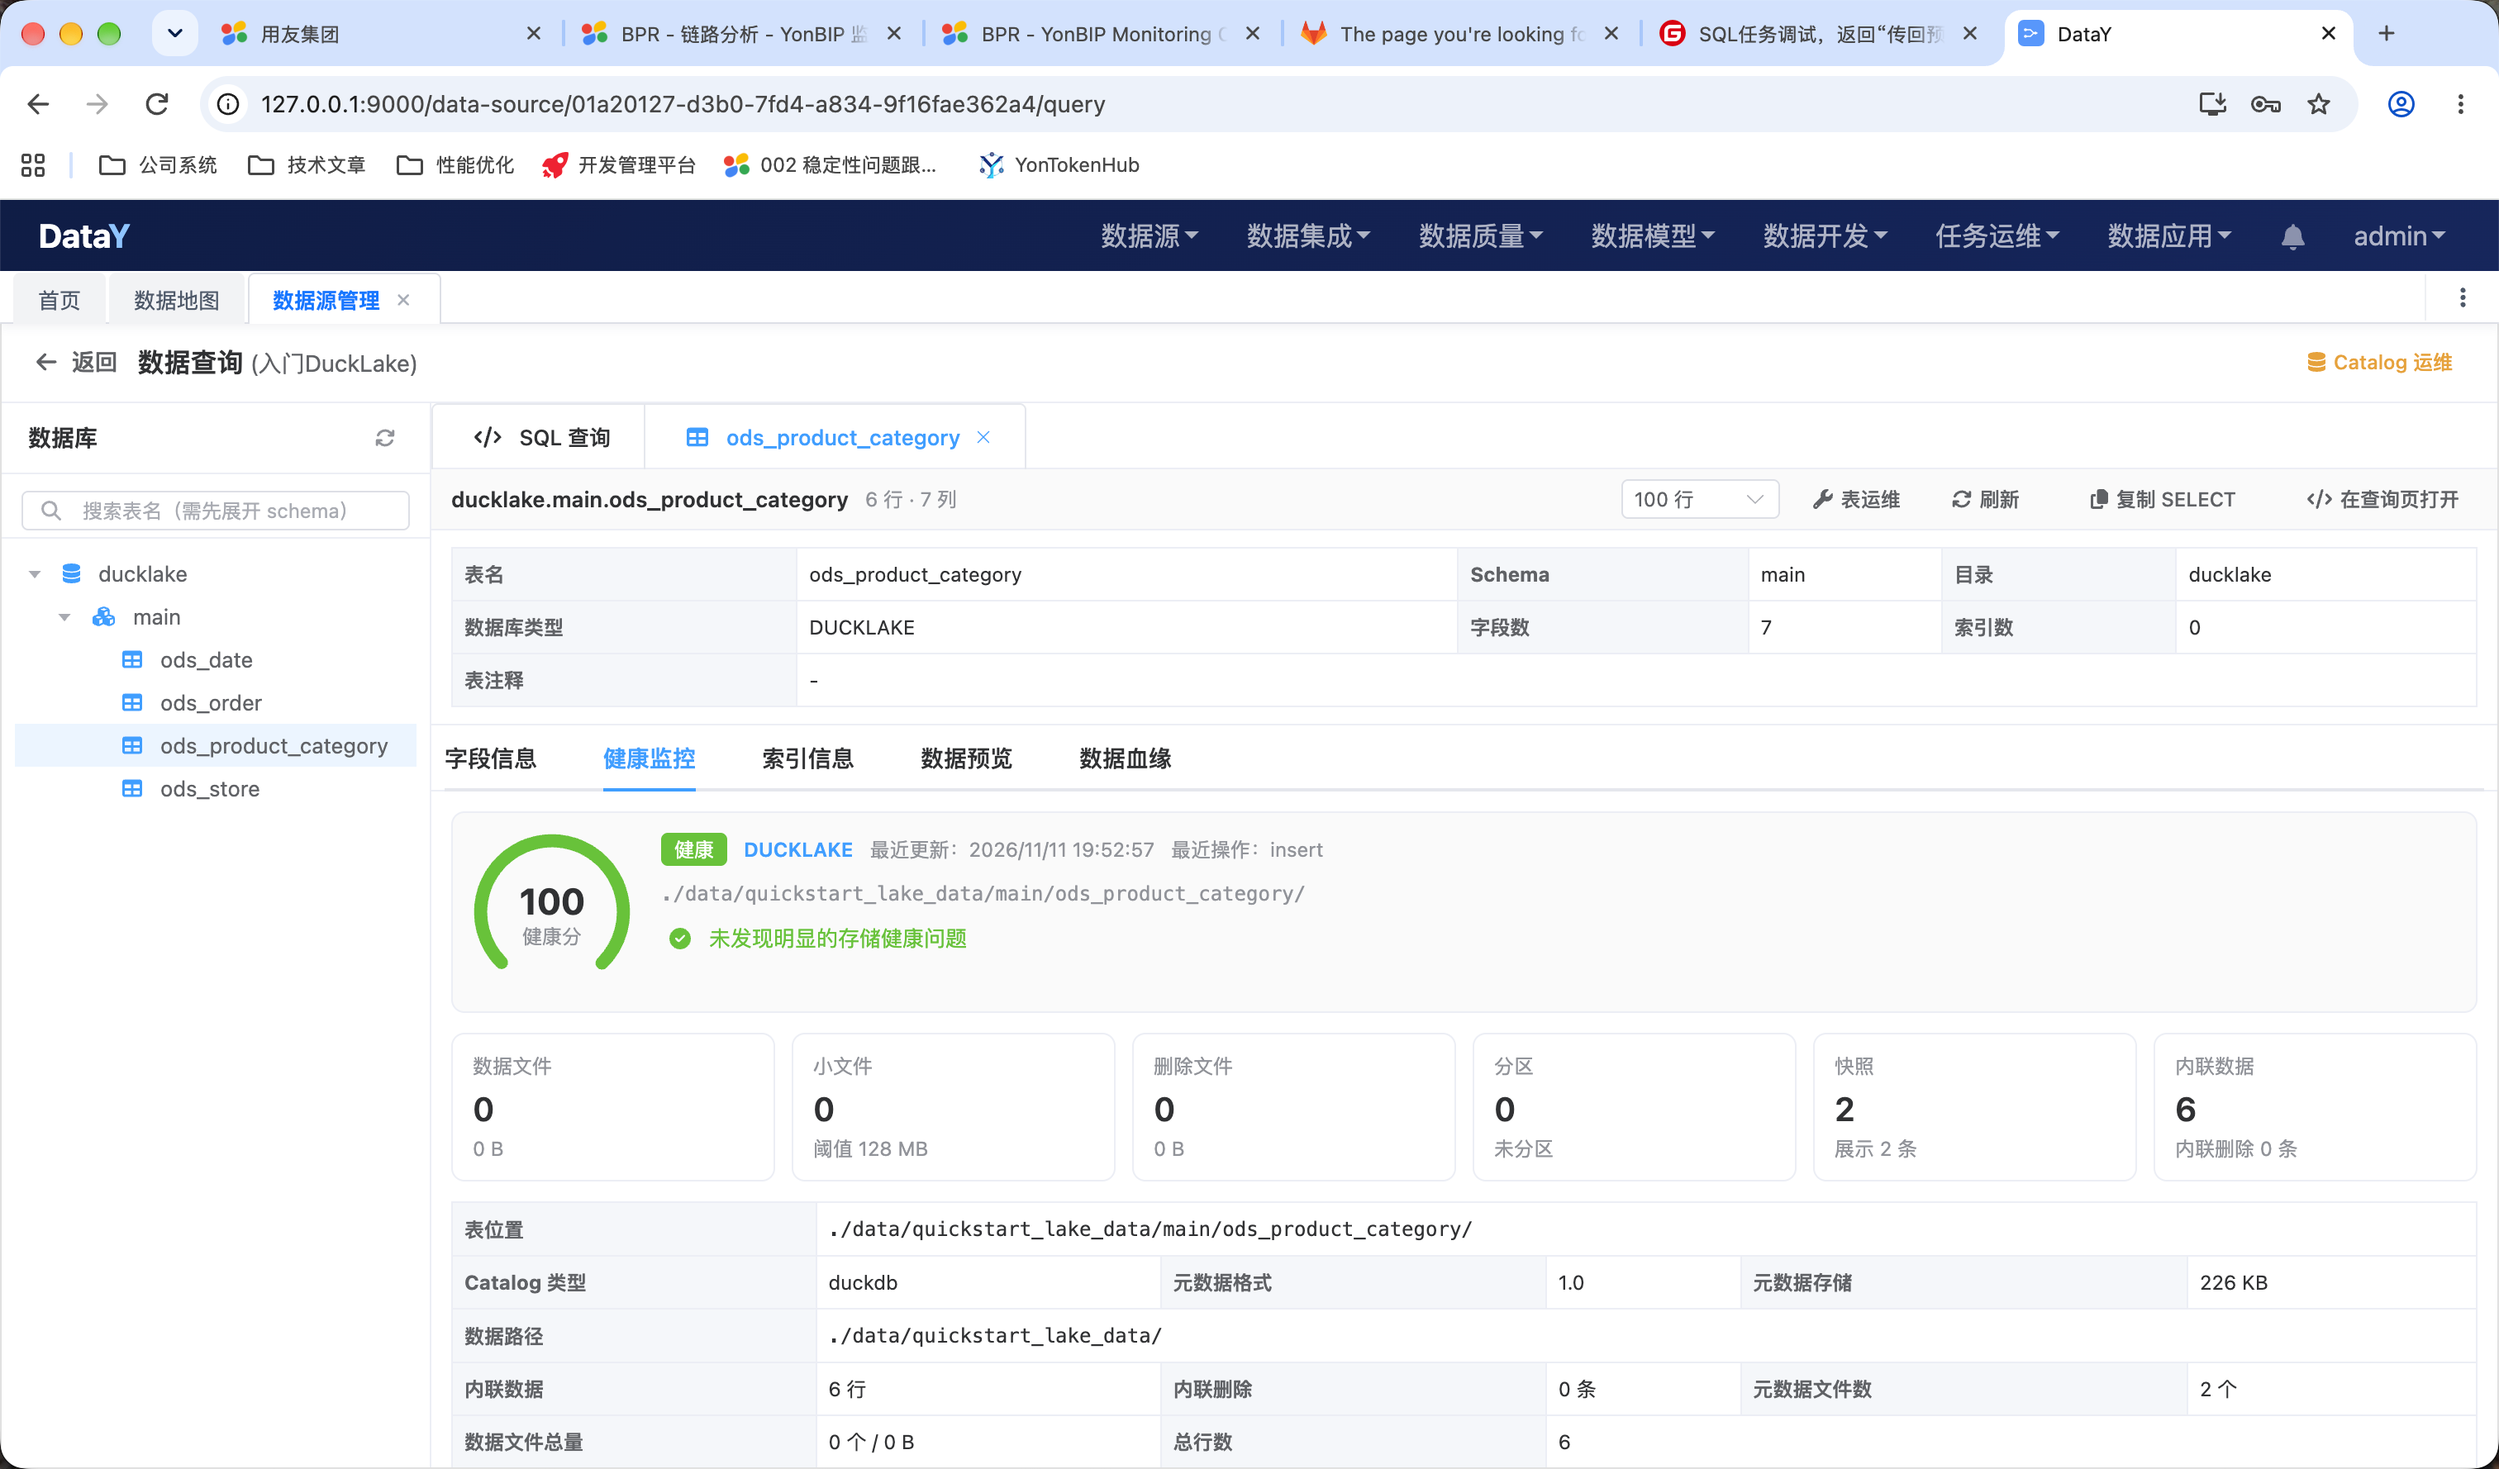
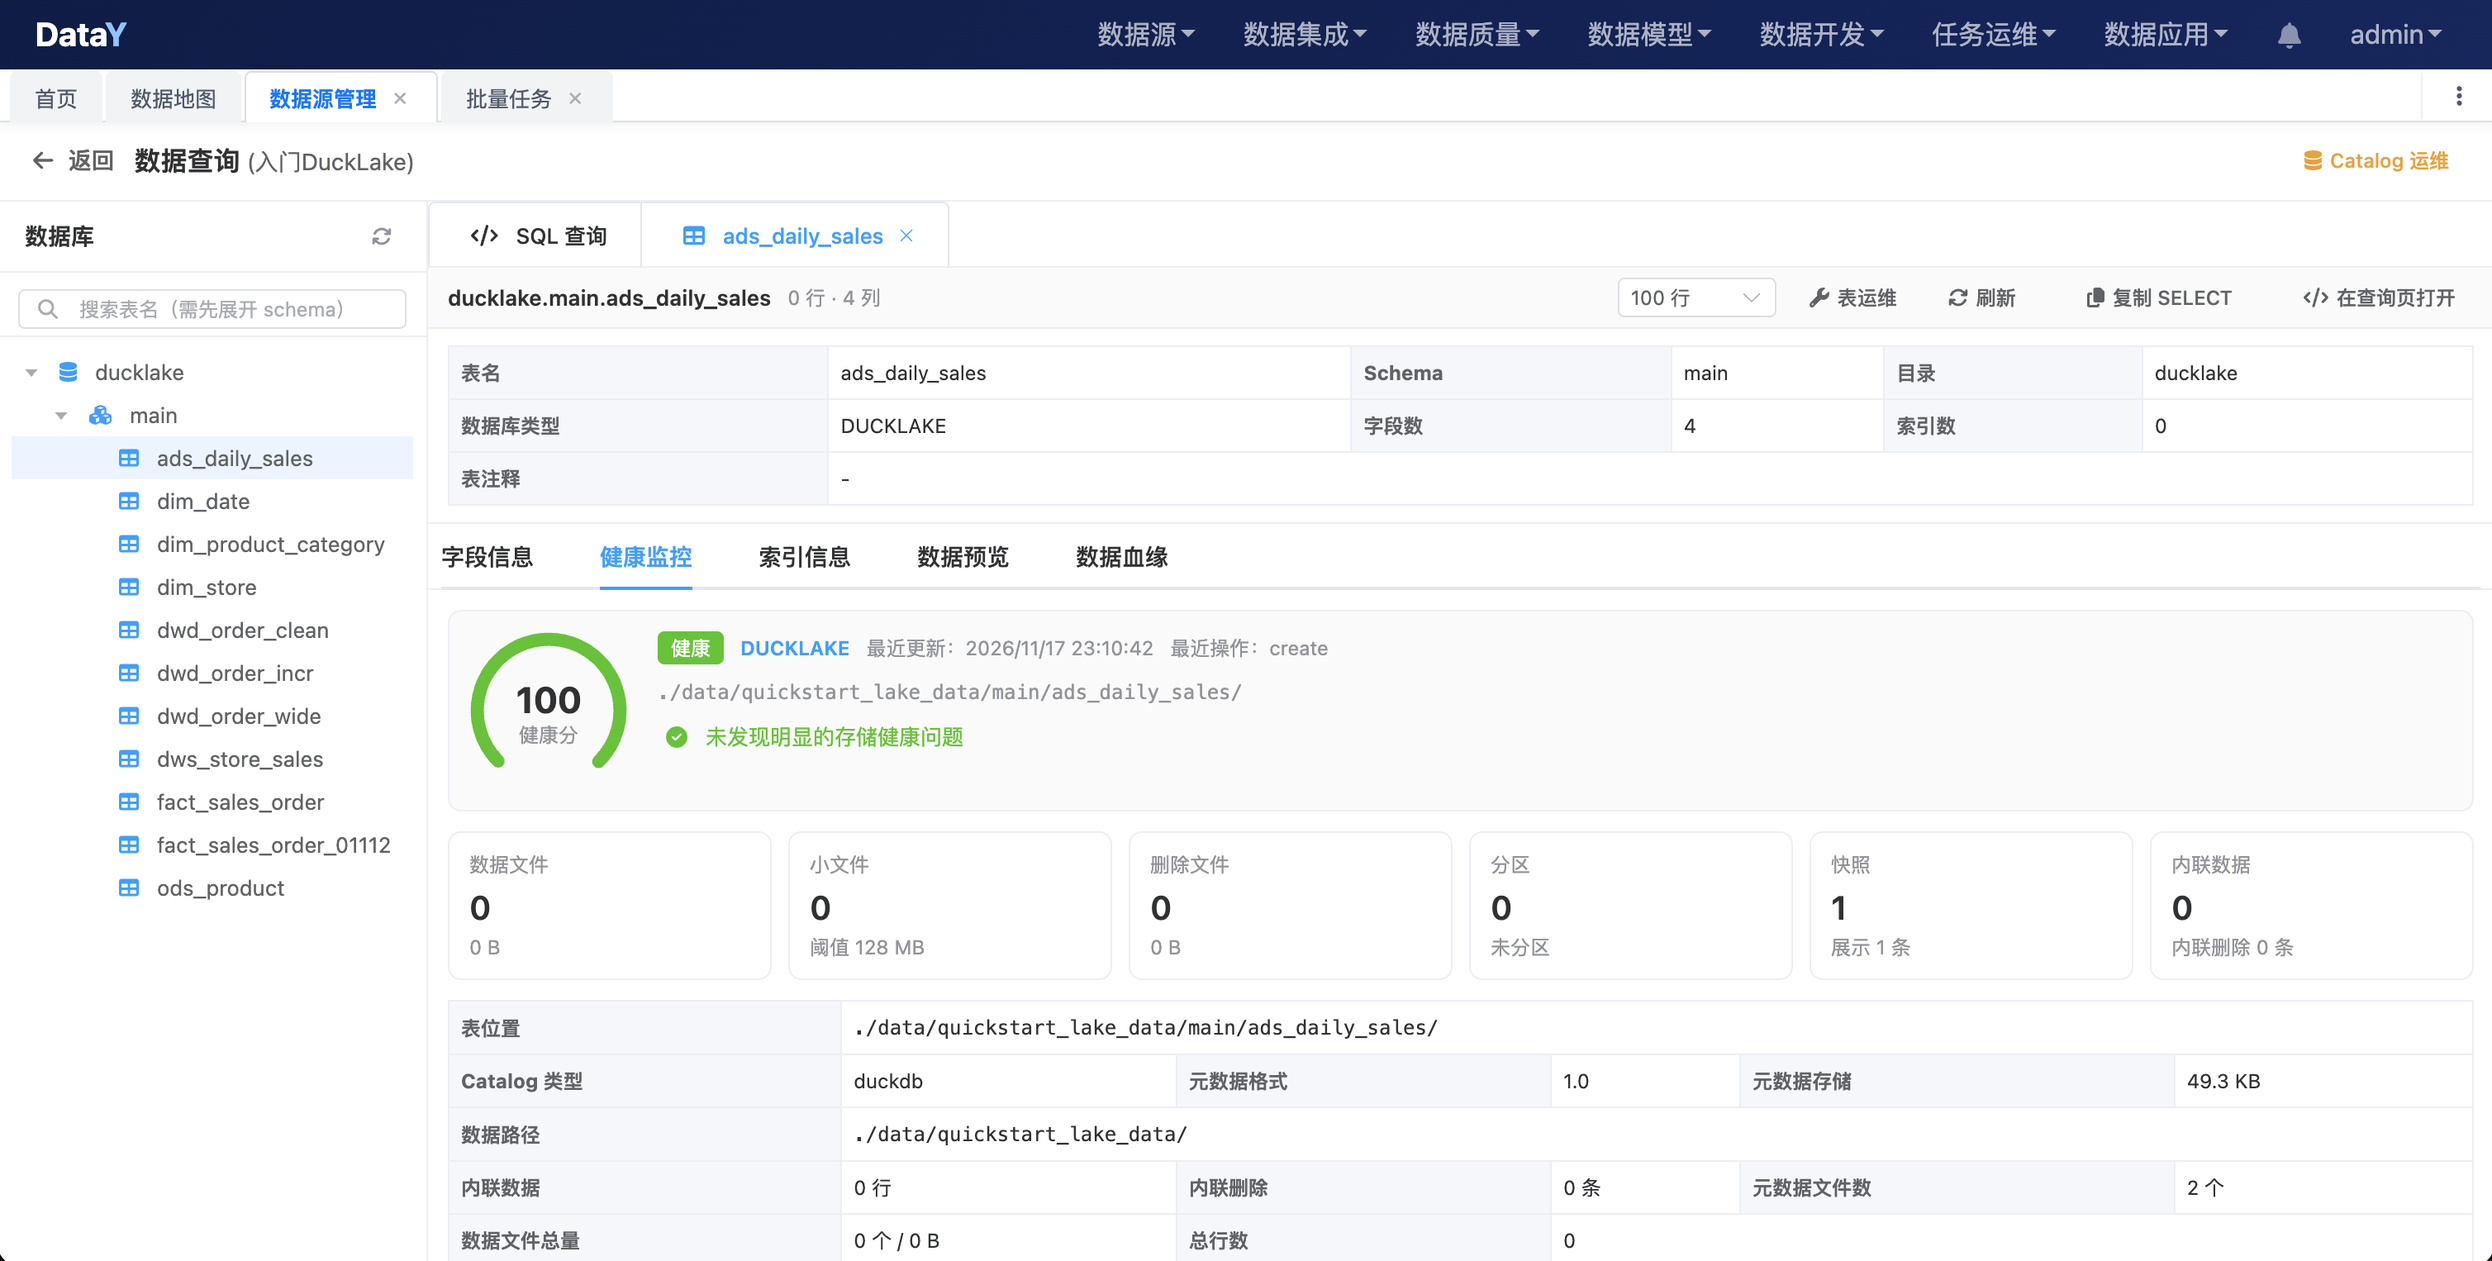
docs(readme): 补充平台核心能力截图并更新示例图片

diff --git a/README.md b/README.md
@@ -1,6 +1,6 @@
 # DataY · 轻量数据平台
 
-> 数据平台可以很小，功能不打折。一套 DataY 跑起来，数据集成、维度建模、任务调度、高性能数仓、智能问数 —— 全有。
+> 数据平台可以很小，功能不打折。一套 DataY 跑起来，数据集成、维度建模、任务调度、高性能数仓、分析看板、智能问数 —— 全有。
 
 🌐 **产品首页**: [http://datay.yuyuejia.com.cn/](http://datay.yuyuejia.com.cn/)
 
@@ -30,7 +30,7 @@ DataY 分两个子模块，Core 负责引擎，Web 负责平台产品：
 datay/
 ├── pom.xml          # Maven 父模块
 ├── datay-core/      # 轻量、高性能、流批一体的数据集成引擎
-├── datay-web/       # 可视化数据平台（任务设计 + 调度 + 数仓 + 问数）
+├── datay-web/       # 可视化数据平台（任务设计 + 调度 + 数仓 + 看板 + 问数）
 └── docs/            # 产品主页 + 帮助文档
 ```
 
@@ -44,6 +44,10 @@ datay/
 - 自动建表（DDL 转换），源表改字段自动同步到目标
 - 支持跨库数据比对：按主键关联两侧表，DuckDB SQL 计算差异，结果文件写入本地或 MinIO
 
+|                                 可视化 ETL 拖拽画布                                 |                                   多数据源统一接入                                    |
+|:----------------------------------------------------------------------------:|:-----------------------------------------------------------------------------:|
+| <img src="datay-web/docs/images/ETL任务设计.png" width="400" alt="可视化 ETL 拖拽画布"> | <img src="datay-web/docs/images/数据源管理.png" width="400" alt="创建数据源，支持三十余种数据源"> |
+
 ### 维度建模（Dimensional Modeling）
 
 - 星型 / 雪花模型：可视化定义事实表与维度表的关联，沉淀业务语义层
@@ -52,12 +56,20 @@ datay/
 - 维度 / 事实模型支持物化建表，数据直接落地到内嵌 DuckDB
 - 为指标管理与智能问数提供统一的维度体系，指标口径不跑偏
 
+|                                          事实表字段关联维度                                           |                                               指标数据血缘                                                |
+| :---------------------------------------------------------------------------------------------------: | :-------------------------------------------------------------------------------------------------------: |
+| <img src="datay-web/docs/images/事实表字段关联维度配置.png" width="400" alt="事实表字段一键关联维度"> | <img src="datay-web/docs/images/数据血缘.png" width="400" alt="数据血缘：物理表 → ETL 任务 → 维度/事实模型 → 指标"> |
+
 ### 任务调度（Job Scheduler）
 
 - Cron 定时调度，Quartz 引擎精准到秒
 - DAG 工作流编排，支持嵌套工作流
 - 支持手动触发、暂停/恢复、失败重试
 - 调度 master 与执行 worker 可分离部署，单机就能跑，集群也能扩
+
+|                                   DAG 工作流编排                                    |                                          任务实例执行日志                                           |
+| :---------------------------------------------------------------------------------: | :-------------------------------------------------------------------------------------------------: |
+| <img src="datay-web/docs/images/任务编排.png" width="400" alt="DAG 工作流编排画布"> | <img src="datay-web/docs/images/任务实例运行成功.png" width="400" alt="任务实例运行成功与执行日志"> |
 
 ### 高性能数仓（High-Performance Warehouse）
 
@@ -66,17 +78,32 @@ datay/
 - 支持 Doris / ClickHouse 流式加载，需要大规模查询可随时外挂
 - 支持 DuckLake（Iceberg 格式）与 Apache Polaris（Iceberg REST Catalog），低成本构建数据湖
 
-### 数据地图（Data Map）
+<img src="datay-web/docs/images/ducklake表健康监控.png" width="820" alt="DuckLake 表健康监控：文件、快照、健康分与维护建议">
 
-- 汇总数据源、采集元数据（表/字段）、ETL 任务、数据模型、指标、数据集、看板、API 与质量任务，构建全域资产目录
-- 默认以 ECharts 关系图展示全量资产与上下游关系，支持按类型、数据源筛选和聚焦查看
-- 支持名称、编码、注释全文检索与关键字高亮，快速定位资产
+### 分析看板（Analytics Dashboard）
+
+- 拖拽式可视化设计：栅格布局、组件缩放、撤销/重做、保存前预览，边设计边看效果
+- 内置 16 种 ECharts 图表（柱状、折线、面积、饼图、环形、仪表盘、散点、雷达、漏斗、热力图、矩形树、瀑布、桑基、关系、箱线、地图），并提供 KPI、明细表、透视表与说明文本组件
+- 数据集驱动：直接选用指标数据集或自定义 SQL 数据集，指标数据集自动继承维度、时间范围与统一口径
+- 灵活的筛选器：日期区间、下拉、多选、文本与数值区间，可绑定多个数据集并支持下推，支持默认值
+- 图表下钻：点击图形查看对应明细数据，保留点击条件并支持分页浏览
+- 标准看板 + 固定分辨率大屏：提供常见大屏分辨率预设、contain / stretch / cover 适配与画布缩放，支持浅色 / 深色主题、纯色 / 渐变 / 背景图，以及定时自动刷新
+- AI 看板助手：一句话生成数据集、图表、KPI、筛选器与布局，也可继续用自然语言修改现有看板
+- 支持嵌入第三方系统：通过 `dashboard.html?id=<看板ID>&embed=1&token=<令牌>` 以 iframe 方式免登录展示，自动隐藏平台框架
+
+|                                          指标数据集直接生成看板                                           |                                            AI 看板助手                                             |
+| :-------------------------------------------------------------------------------------------------------: | :------------------------------------------------------------------------------------------------: |
+| <img src="datay-web/docs/images/看板直接使用指标数据集.png" width="400" alt="分析看板直接使用指标数据集"> | <img src="datay-web/docs/images/AI看板助手.png" width="400" alt="AI 看板助手，一句话生成分析看板"> |
 
 ### 智能问数（AI Data Agent）
 
 - 自然语言 → 指标 → 维度 → 时间过滤 → 取数，**一句话拿报表**
 - RAG 本地向量索引，指标口径不跑偏
 - 指标管理模块统一维护业务口径，问数有依据
+
+|                                          智能问数入口                                           |                                           一次完整问数的解析与结果                                            |
+| :---------------------------------------------------------------------------------------------: | :-----------------------------------------------------------------------------------------------------------: |
+| <img src="datay-web/docs/images/智能问数页头.png" width="400" alt="智能问数：自然语言提问入口"> | <img src="datay-web/docs/images/一次完整问数的解析与结果.png" width="400" alt="一次完整问数的口径解析与结果"> |
 
 ### MCP Harness（让 Agent 直接操作平台对象）
 
